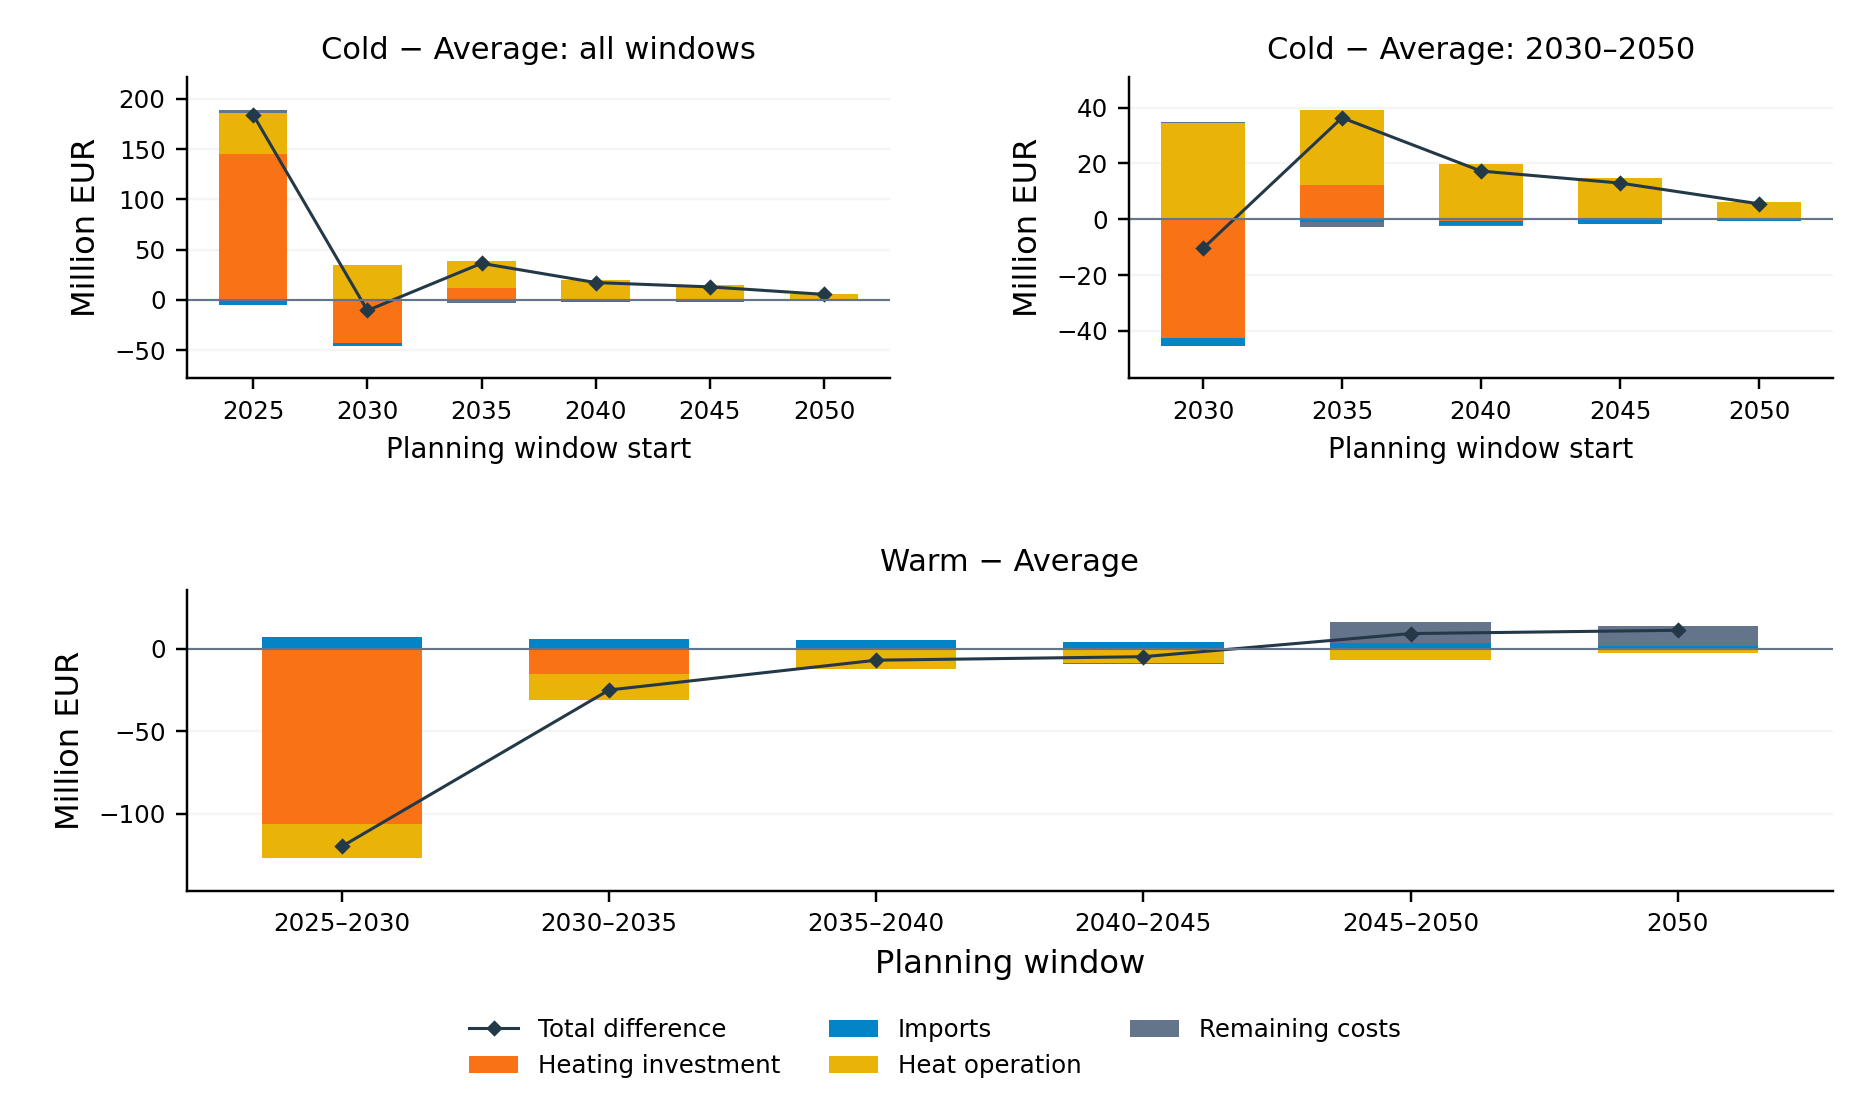
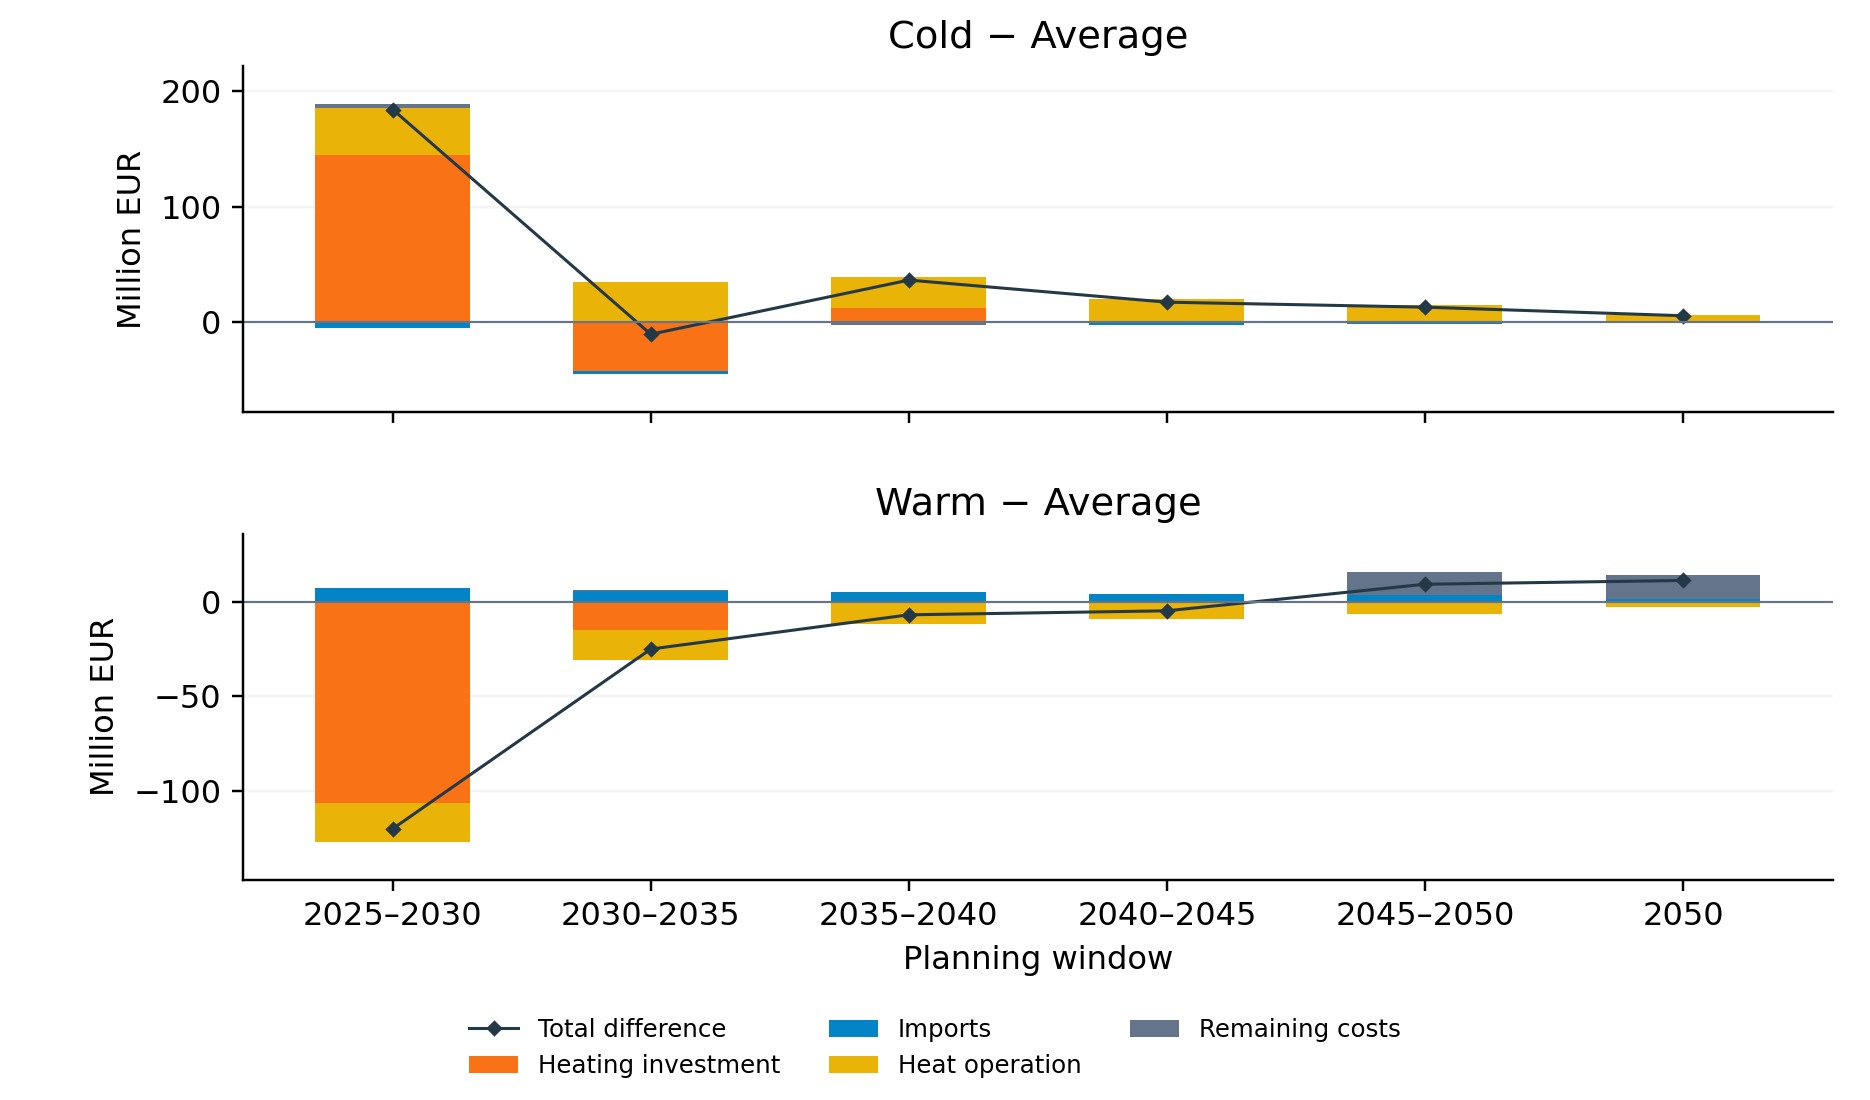
Simplify Figure 12 to the two full-range temperature panels

diff --git a/README.md b/README.md
@@ -123,8 +123,8 @@ designed sensitivities. Cluster fractions describe membership in the generated e
 The [autoencoder study](https://github.com/Roko55/H2RES-autoencoder/tree/v0.1.0)
 retains its own model and historical comparison corpus.
 
-For a fixed reference, cite [version 0.9.0](https://github.com/Roko55/H2RES-climate-pipeline/tree/v0.9.0).
-Version 0.9.0 supplies the V6.2 thermal-demand method, accepted national results and exact figures.
+For a fixed reference, cite [version 0.9.1](https://github.com/Roko55/H2RES-climate-pipeline/tree/v0.9.1).
+Version 0.9.1 supplies the V6.2 thermal-demand method, accepted national results and exact figures. The figure-only update removes the separate detail panel from Figure 12; all numeric results are unchanged.
 The original 45 operating tests are retained; the three additional battery controls
 are listed separately until their completion and comparison are verified.
 Earlier publication snapshots remain available through their original version tags.

diff --git a/docs/RESEARCH_RESULTS.md b/docs/RESEARCH_RESULTS.md
@@ -1,7 +1,7 @@
 # Checked V6.2 results
 
 Manuscript SHA256:
[2 lines of base64/hex data omitted]
 This identifies a fixed checked snapshot, not later manuscript revisions.
 See [Result columns and units](RESULT_COLUMNS.md) to interpret the CSV fields
 and [Getting started](GETTING_STARTED.md) to use the pipeline.
@@ -40,7 +40,7 @@ Average net imports, including existing Krško rights once, are 5.26296 TWh in 2
 6.67129 TWh in 2030 and 20.39274 TWh in 2050. Warm 2050 includes a one-hour
 49.64909 MWh electricity shortfall, whose penalty affects the window cost.
 Solar cost differences come from net purchases; wind non-purchase differences
-are below 27 EUR. Figure 12 uses separate panels for full and later Cold windows.
+are below 27 EUR. Figure 12 has two ordinary panels, Cold and Warm, covering all planning windows.
 
 ## Fixed-portfolio operation — section 4.6
 
